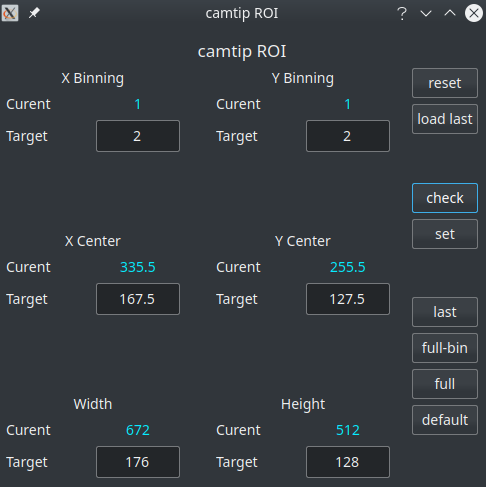
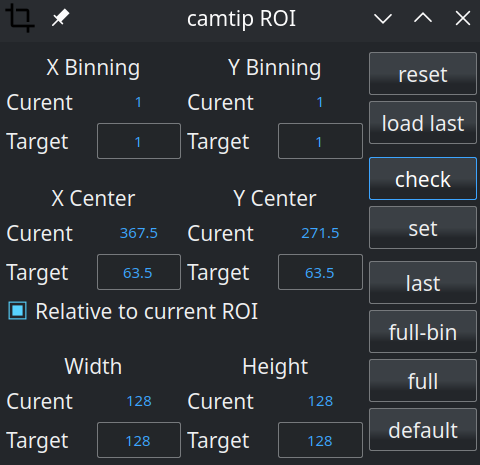
updated roi and rtimv

diff --git a/operating/software/guis/cameras.rst b/operating/software/guis/cameras.rst
@@ -24,17 +24,28 @@ For the full description of all of the features of ``rtimv`` see the its `User G
 ROIs
 ------
 
-Regions of Interest (ROIs) can be set for many of the cameras used in MagAO-X.  The ``roiGUI`` can be started with the command
+Regions of Interest (ROIs) can be set for many of the cameras used in MagAO-X.  The ``roiGUI`` can be opened from the 
+``cameraGUI`` control panel for the camera, or can be started with the command
 ::
 
       $ roiGUI camtip
       
-where ``camtip`` can be changed to the name of the camera device desired.
+where ``camtip`` can be changed to the name of the camera device desired.  
 
 |image1|
 
-The text entry blocks allow you to change the target parameters of the ROI.  When a target value is changed, the purple ROI box in rtimv (see above) will update automatically to show you which region of the camera is selected.  Note that you have to hit enter, or tab or click to another box, for the new value to load.
+The text entry blocks allow you to change the target parameters of the ROI.  
+When a target value is changed, the purple ROI box in rtimv (see above) will update automatically to 
+show you which region of the camera is selected.  Note that you have to hit enter, or tab or click to another box, 
+for the new value to load.
 
+The "Relative to current ROI" check-box below the X and Y Center fields changes the coordinate system of the center targets.  If 
+checked, then the center coordinates are entered in the **Target** fields relative to the current ROI.  This means they match 
+the rtimv display coordinates.  If it is not checked, then the coordinates are relative to the full frame of the camera.  Note that 
+the **Current** fields are always w.r.t. the full frame.  The binning, width, and height are not affected by the check box.  
+
+roiGUI Buttons
+~~~~~~~~~~~~~~~~~~~
 The button functions are:
 
 1. **reset**: resets the target values to the current values. This does not change the camera settings.
@@ -53,7 +64,14 @@ The button functions are:
 
 8. **default**: sets the camera to the configured default ROI.  This **changes the camera settings.** 
 
+Changing ROI in rtimv
+~~~~~~~~~~~~~~~~~~~~~~~~~~~
 
+``rtimv`` allows you to change the ROI by interacting with the maroon box.  It is movable and stretchable.  If it is not visible,
+press `shift+r` (a.k.a. `R`) to make it appear.  You can then adjust its position and size.  Once it is in the position you want
+press `alt+r` to apply it.  This first checks your input with the camera, and if the camera requires a change the box will update
+but the ROI will not move.  Press `alt+r` again to apply the updated position.  If the camera accepts the original it will 
+apply the first time.  In either case an informational message is displayed by `rtimv`.
 
 
 .. |image1| image:: figures/roiGUI.png
